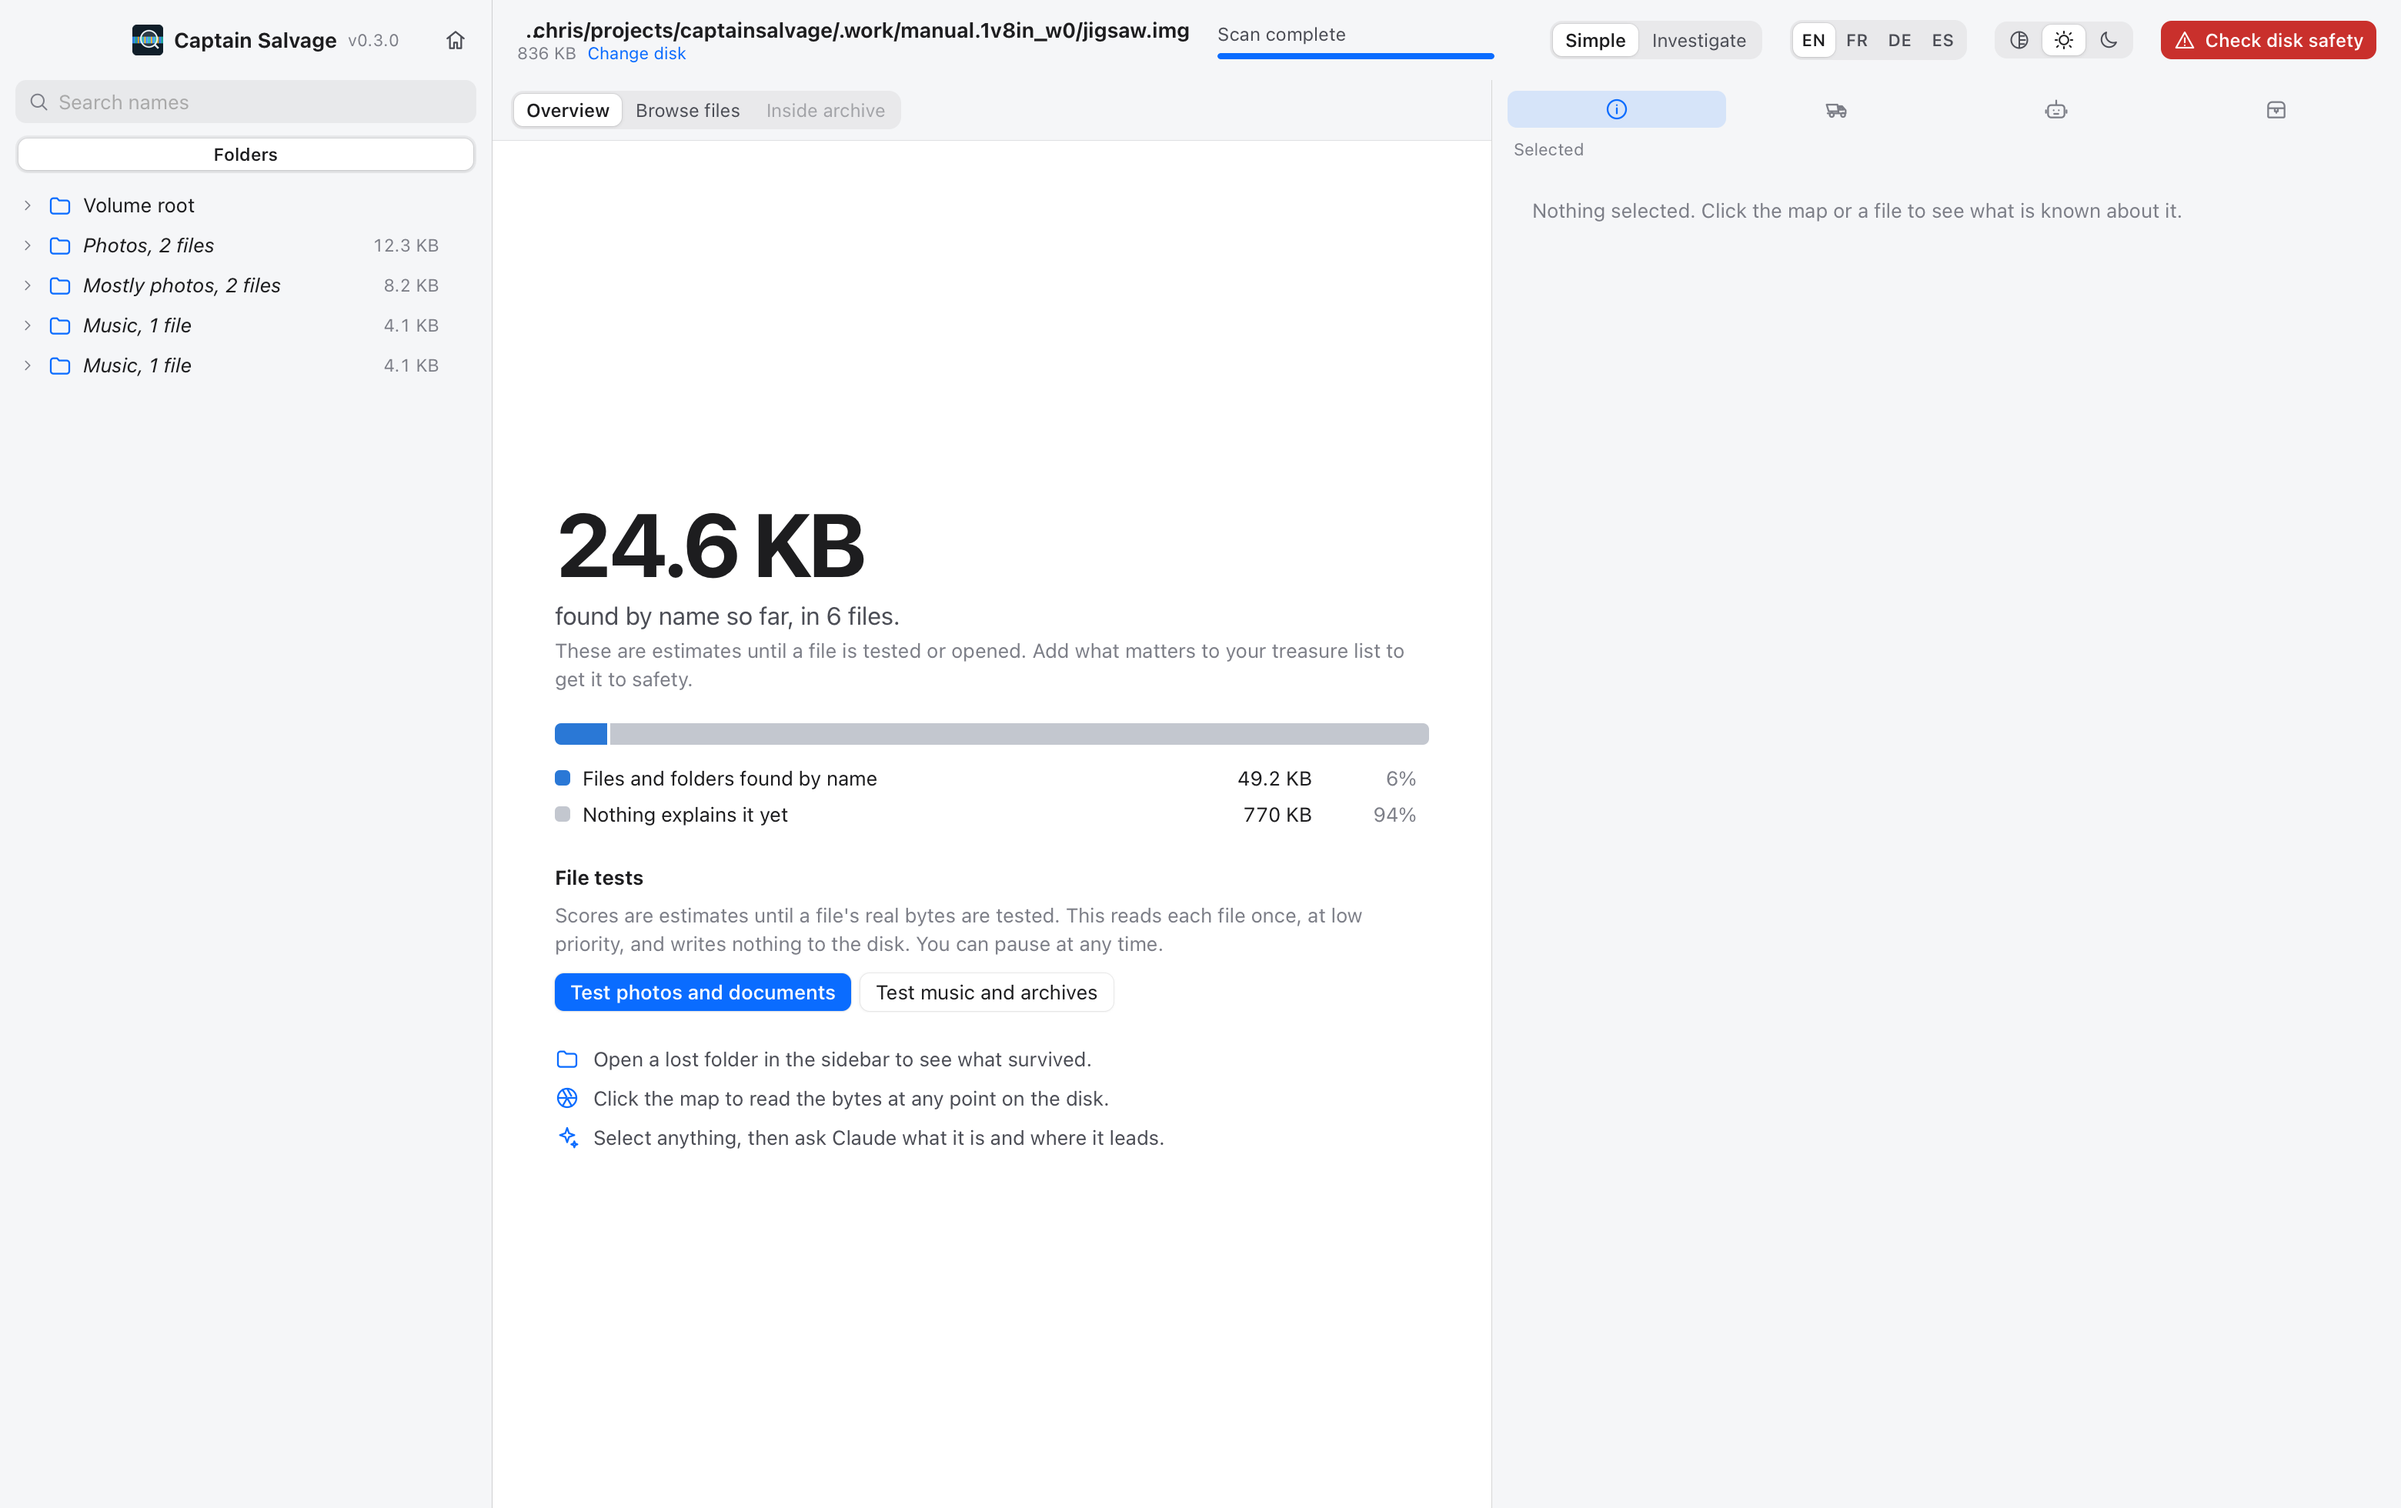
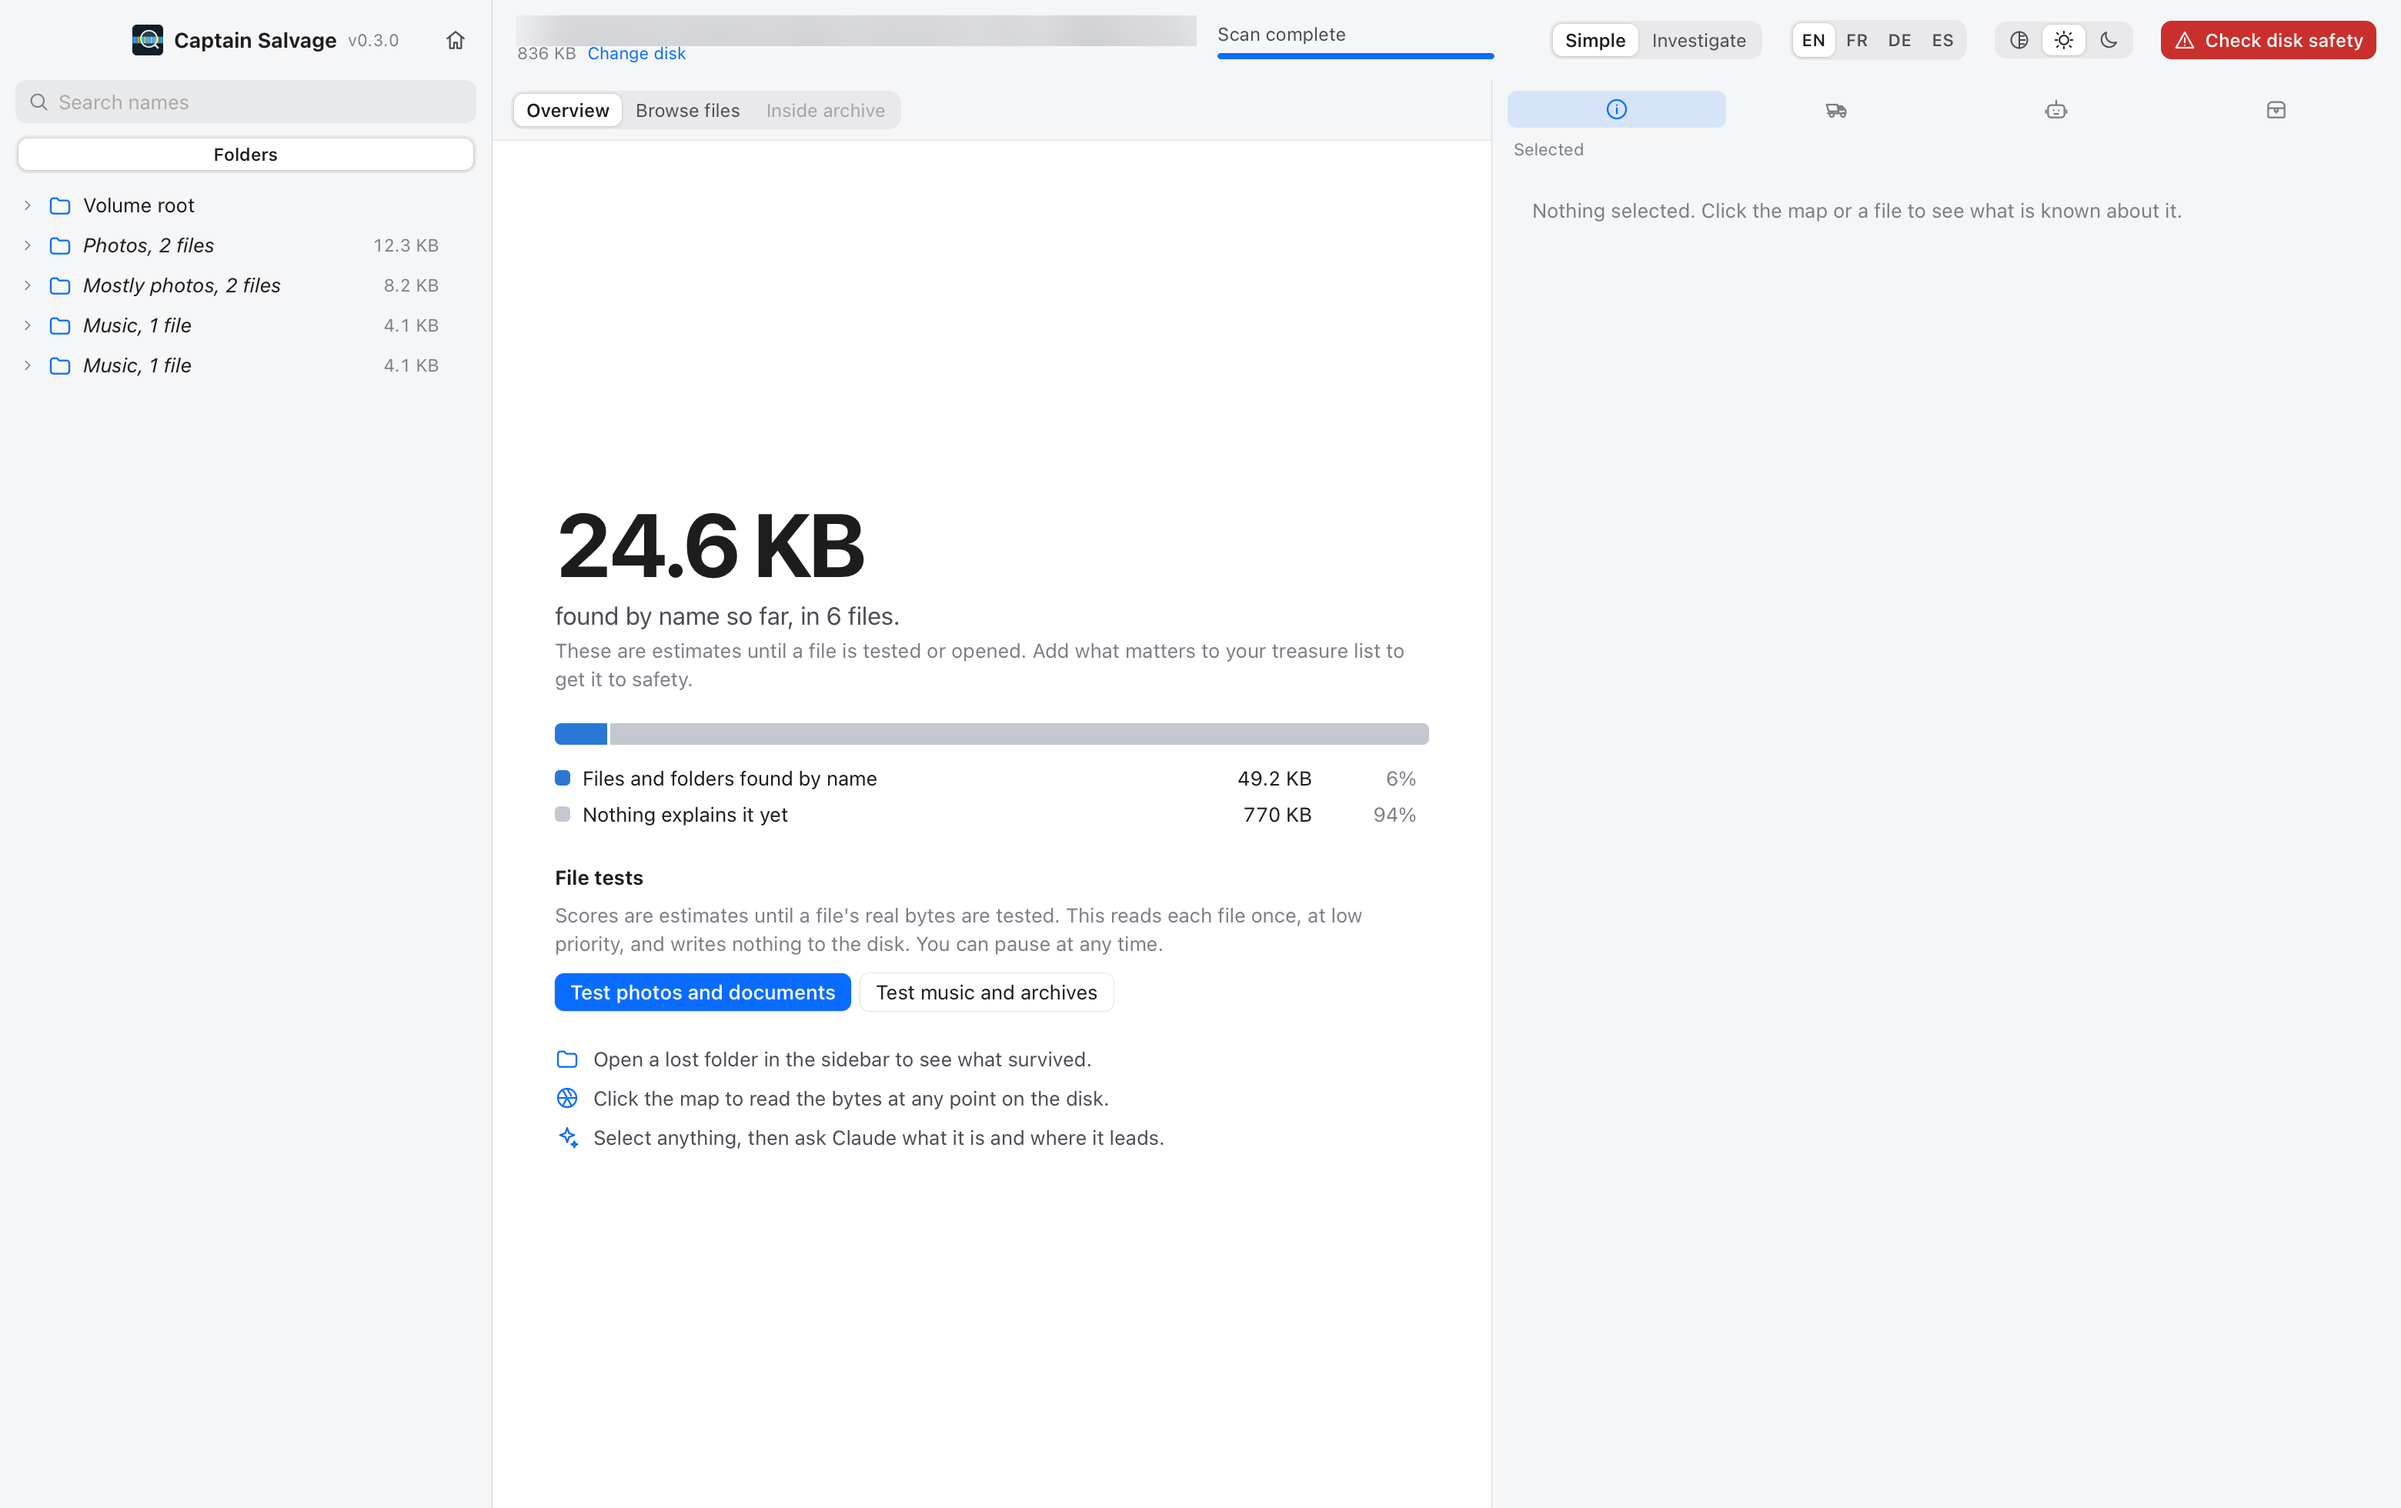
docs: redact personal paths from manual screenshots and update chat wording

Changed region(s): [[0.2176, 0.0, 0.4974, 0.0311]]

diff --git a/docs/manual/index.html b/docs/manual/index.html
@@ -30,7 +30,7 @@
       <li><a href="#selected">Selected and file preview</a></li>
       <li><a href="#archives">Inside archive</a></li>
       <li><a href="#rebuild">Rebuild: the folder canvas</a></li>
-      <li><a href="#agent">Ask agent</a></li>
+      <li><a href="#agent">Chat with an agent</a></li>
       <li><a href="#treasure">Treasure list and copying</a></li>
       <li><a href="#report">Copy report</a></li>
       <li><a href="#map">Investigate: map strips</a></li>
@@ -111,7 +111,7 @@
       <thead><tr><th scope="col">Mode</th><th scope="col">What it shows</th><th scope="col">When to use it</th></tr></thead>
       <tbody>
         <tr><th scope="row">Simple (default)</th><td>Folders, Overview, Browse files,
-          Inside archive; Selected, Rebuild, Ask agent, Treasure list.</td><td>Finding,
+          Inside archive; Selected, Rebuild, Chat with an agent, Treasure list.</td><td>Finding,
           previewing, organising, and copying files without the technical map and bytes views.</td></tr>
         <tr><th scope="row">Investigate</th><td>Everything in Simple, plus map strips,
           Bytes, extra sidebar views, Workbench, Hypotheses, Lens, Volume, Activity,
@@ -231,9 +231,9 @@
       the view is not a substitute for an independent recovered copy.</p>
   </section>
   <section id="agent">
-    <h2>10. Ask agent</h2>
-    <figure><a href="../../media/manual/09-ask-agent.png"><img src="../../media/manual/09-ask-agent.png" alt="Ask agent panel with selection context and an idle message composer."></a><figcaption>No external agent was run for this illustration.</figcaption></figure>
-    <p>Select a file or region, open <strong>Ask agent</strong>, choose an available
+    <h2>10. Chat with an agent</h2>
+    <figure><a href="../../media/manual/09-ask-agent.png"><img src="../../media/manual/09-ask-agent.png" alt="Chat with an agent panel with selection context and an idle message composer."></a><figcaption>No external agent was run for this illustration. The screenshot retains the earlier “Ask agent” tab label.</figcaption></figure>
+    <p>Select a file or region, open <strong>Chat with an agent</strong>, choose an available
       agent, and enter a question. The context area tells you what the agent is being
       asked about. For example: “Why is this file marked partial?” or “Explain the
       evidence before proposing a hypothesis.”</p>

diff --git a/media/README.md b/media/README.md
@@ -31,11 +31,16 @@ The optional dark example uses the same window. PNGs retain the capture's resolu
 Attached-device rows were omitted from the start-screen illustration; the capture
 session hid destination-volume choices and used an explicitly entered folder
 inside its temporary directory for the real synthetic copy and verification. The
-Connect illustration replaces the session's bearer token with `REDACTED`. The Ask
-agent illustration shows the idle composer: no external agent was invoked. These
+Connect illustration replaces the session's bearer token with `REDACTED`. The Chat
+with an agent illustration shows the idle composer: no external agent was invoked.
+Its screenshot retains the earlier tab label. These
 are documentation-only presentation safeguards, not changes to the app.
 The Activity illustration omits capture-driver calls so recovery operations remain
 readable. The red safety indicator is expected for writable, disposable image files.
+
+Local source and destination paths are strongly blurred in every manual screenshot,
+including the start-screen field, window headers, copy fields, copy report, and
+Activity details. Pixels outside those path-text boxes remain unchanged.
 
 Every committed PNG was opened for visual inspection before inclusion and contains
 only synthetic recovery data. The test instances opened only the synthetic source

diff --git a/README.md b/README.md
@@ -84,7 +84,7 @@ treats damage as something to route around:
   file can be checked: against its own checksum in a zip, 7z or rar, and against the stream's
   checksum for a compressed file.
 - **An AI can investigate with you.** Select anything and ask an agent about it, in the
-  Ask agent tab: Claude Code, Codex or opencode, with the model you choose. The agent works
+  Chat with an agent tab: Claude Code, Codex or opencode, with the model you choose. The agent works
   through the same tools as the app, over MCP, and has no write path to the disk.
 
 ## Safety
@@ -284,7 +284,7 @@ scripts.
 
 ### Asking an agent from a terminal
 
-`salvage-agent` asks the same agents as the Ask agent tab, about the disk open in the app.
+`salvage-agent` asks the same agents as the Chat with an agent tab, about the disk open in the app.
 The app must be running.
 
 ```sh
@@ -403,7 +403,7 @@ The latest versions. [CHANGELOG.md](CHANGELOG.md) has the full history.
 
 **Documentation**
 
-- Name Chris Thomas as the copyright holder ([#29](https://github.com/antimatter-studios/captainsalvage/pull/29))
+- Name the project's copyright holder ([#29](https://github.com/antimatter-studios/captainsalvage/pull/29))
 - License the project under MIT ([#28](https://github.com/antimatter-studios/captainsalvage/pull/28))
 
 **Other**
